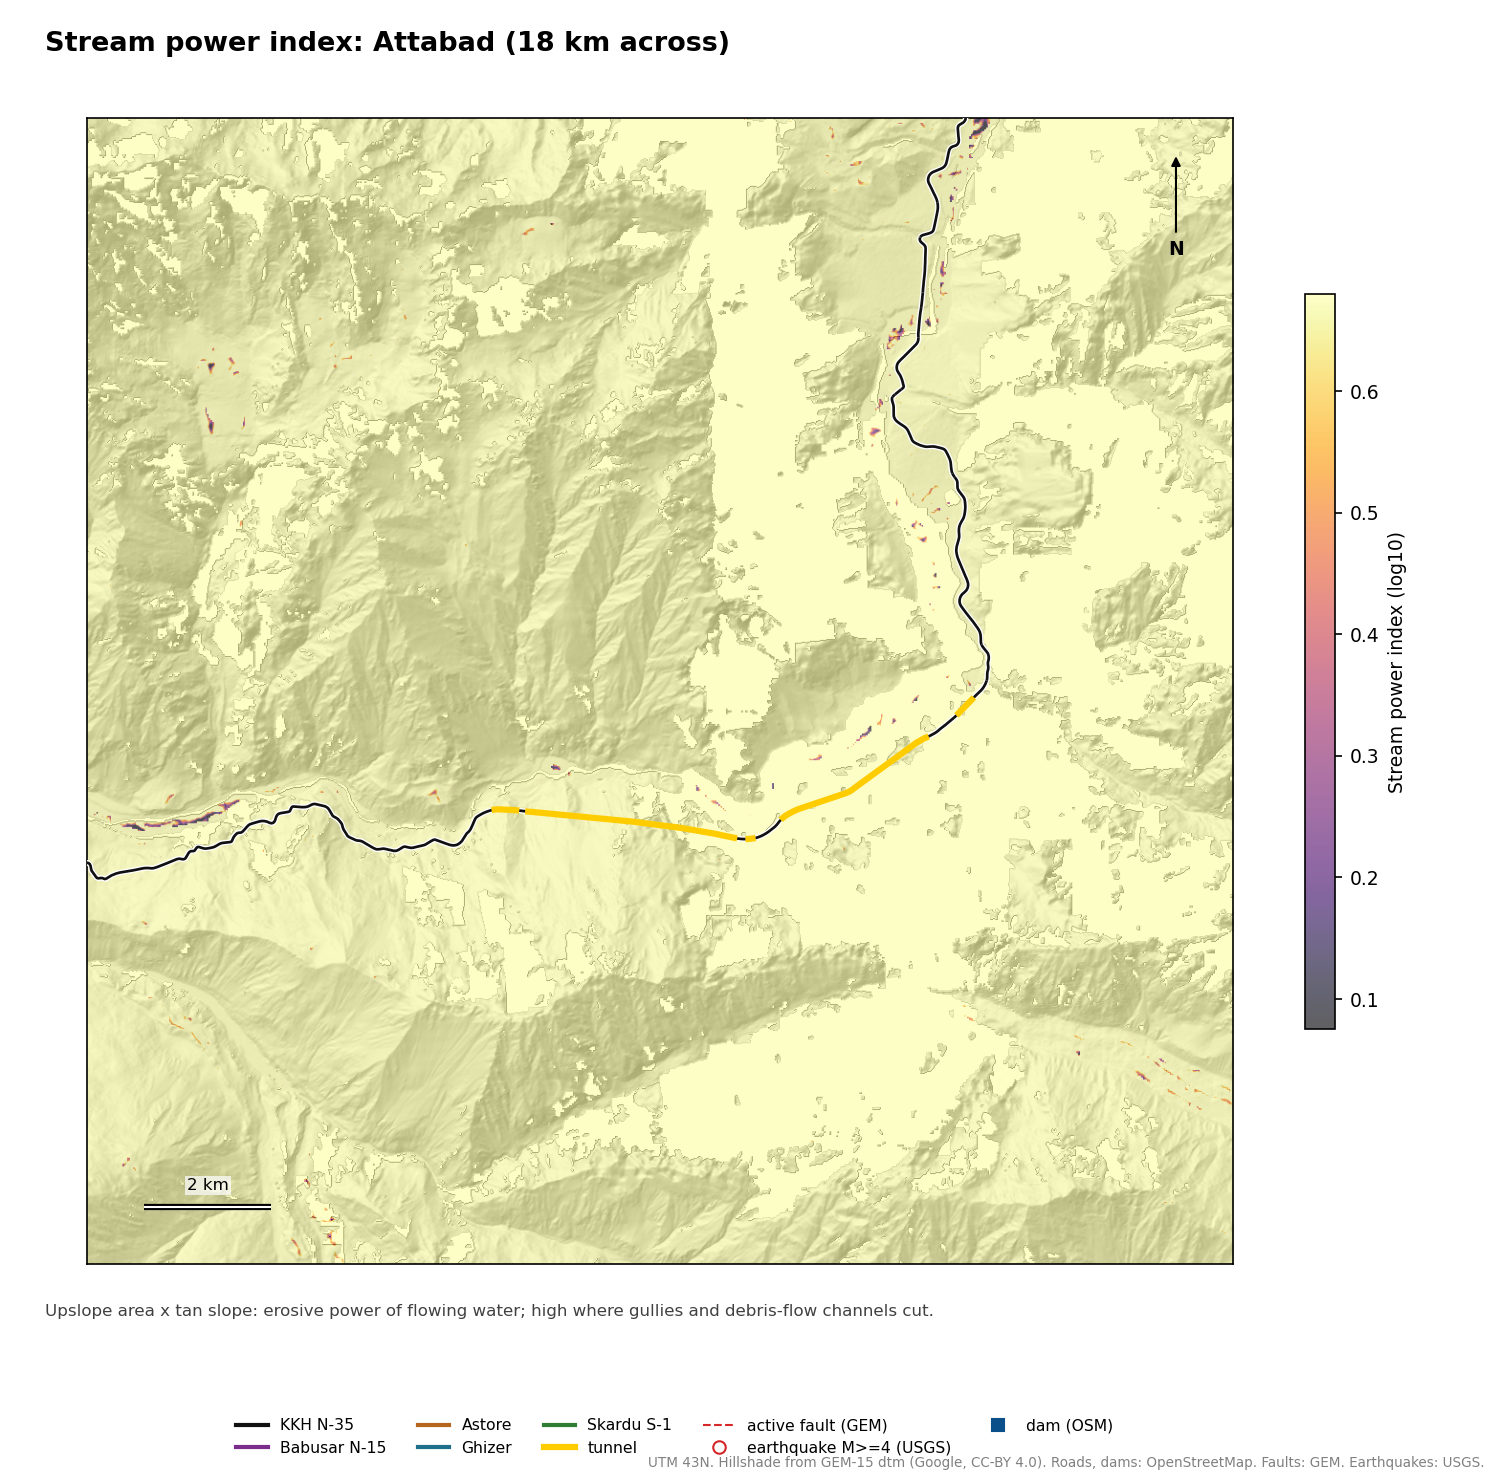
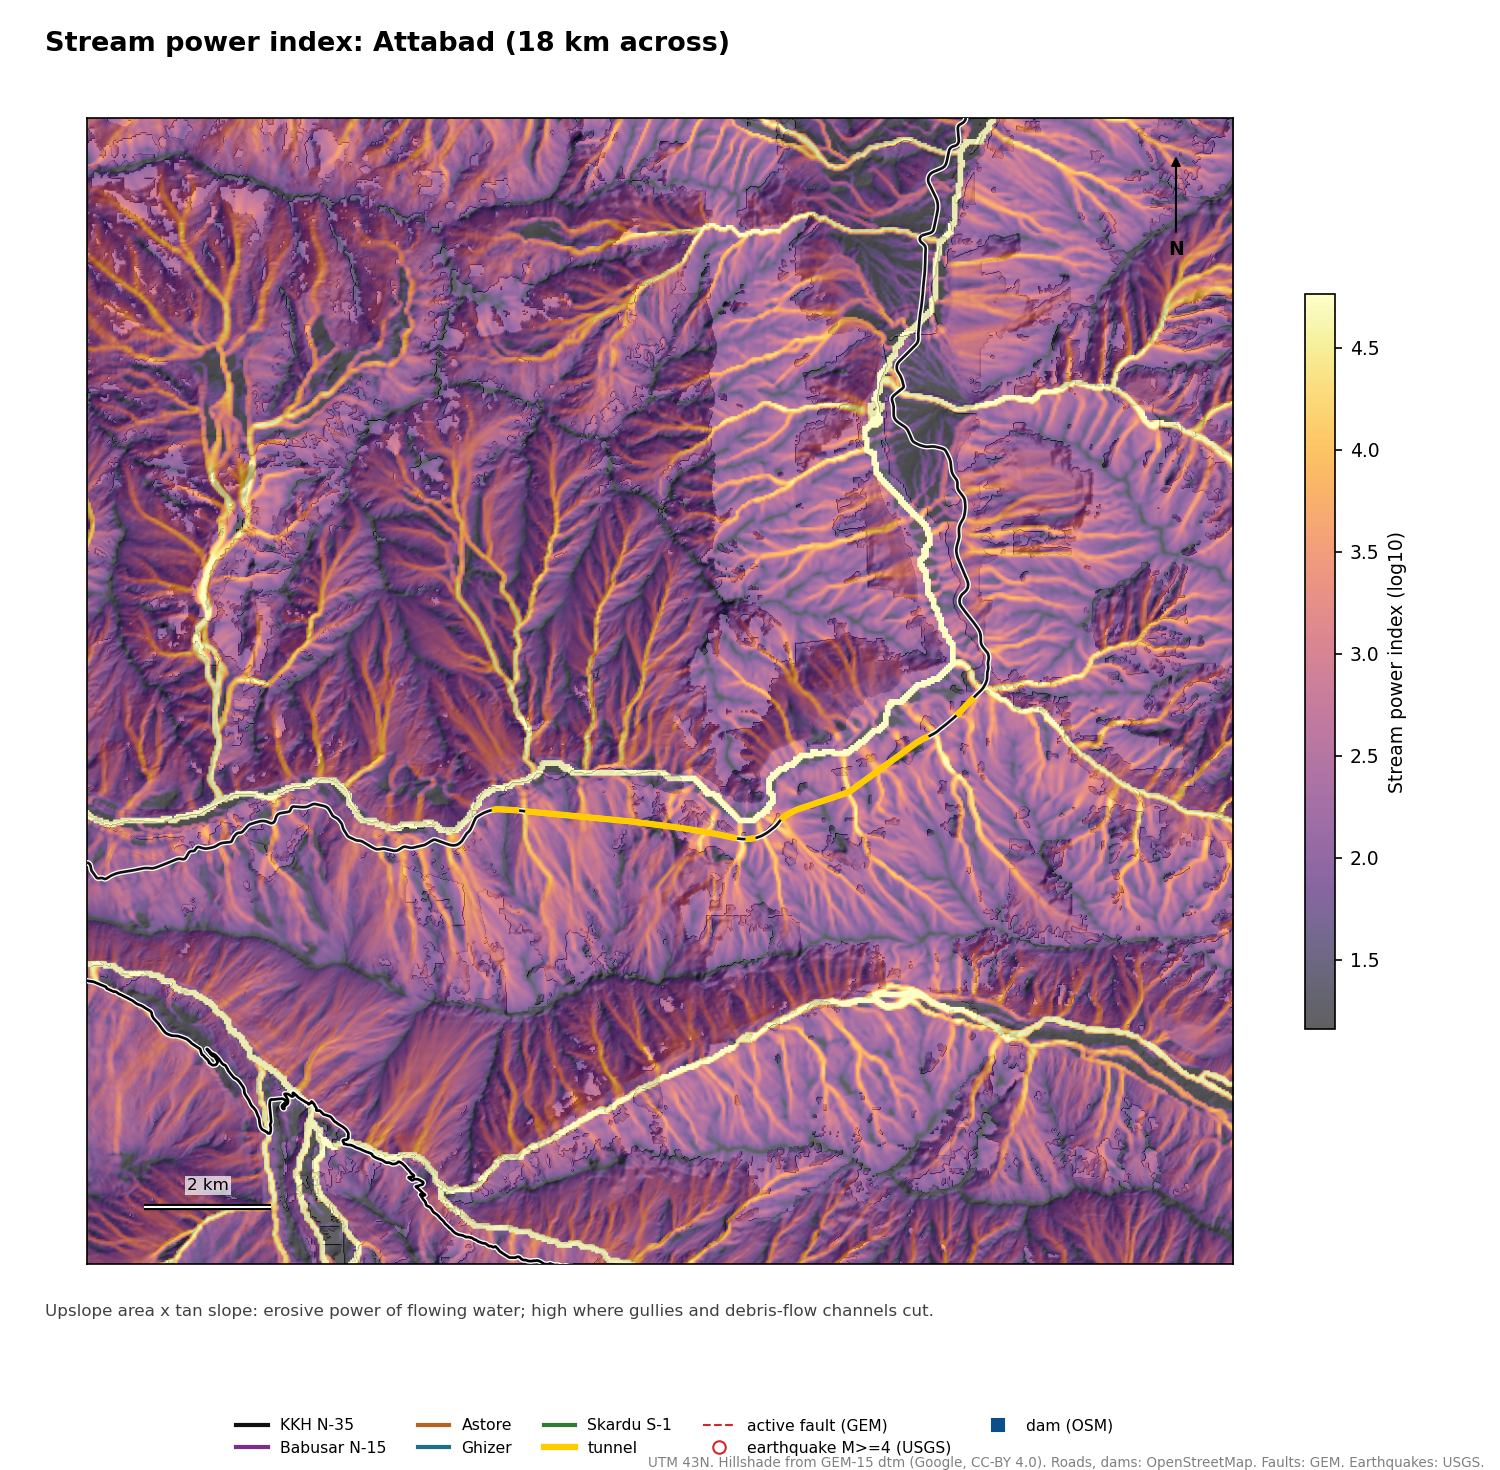
GEM-15 tiles named by map position (fixes reused wrong tiles); stream power colour range; full map sets for the network

diff --git a/src/02b_gem15.py b/src/02b_gem15.py
@@ -44,10 +44,10 @@ def main():
             if geom.intersects(box(w + c * span, n - (r + 1) * span, w + (c + 1) * span, n - r * span))]
     print("tiles", len(todo), "of", rows * cols, flush=True)
     for k, (r, c) in enumerate(todo):
-        out = T / f"tile_{r:03d}_{c:03d}.tif"
+        x0, y0 = w + c * span, n - r * span
+        out = T / f"tile_E{int(x0)}_N{int(y0)}.tif"     # named by map position, so a changed grid never reuses a wrong tile
         if out.exists():
             continue
-        x0, y0 = w + c * span, n - r * span
         req = {"expression": img, "fileFormat": "GEO_TIFF", "bandIds": BANDS,
                "grid": {"dimensions": {"width": N, "height": N},
                         "affineTransform": {"scaleX": PX, "shearX": 0, "translateX": x0, "shearY": 0, "scaleY": -PX, "translateY": y0},
@@ -65,7 +65,7 @@ def main():
         part = out.with_suffix(".part"); part.write_bytes(data); part.rename(out)
         if k % 20 == 0:
             print(k, "/", len(todo), flush=True)
-    tifs = sorted(T.glob("tile_*.tif"))
+    tifs = sorted(T.glob("tile_E*_N*.tif"))
     from osgeo import gdal
     for i, b in enumerate(BANDS, 1):
         gdal.BuildVRT(str(R / f"data/processed/dem_gem15_{b}_utm.vrt"), [str(f) for f in tifs], bandList=[i], srcNodata=float("-inf"), VRTNodata=-9999)

diff --git a/src/90_maps.py b/src/90_maps.py
@@ -100,8 +100,8 @@ def rng(a, rule):
         return rule
     if rule == "sym":
         m = np.percentile(np.abs(v), 98); return (-m, m)
-    if rule == "log":
-        return tuple(np.percentile(np.log10(v[v > 0]), [2, 98]))
+    if rule == "log":                                   # values are already log10 here (taken in main)
+        return tuple(np.percentile(v, [2, 98]))
     lo, hi = map(float, rule[1:].split("-"))
     return tuple(np.percentile(v, [lo, hi]))
 
